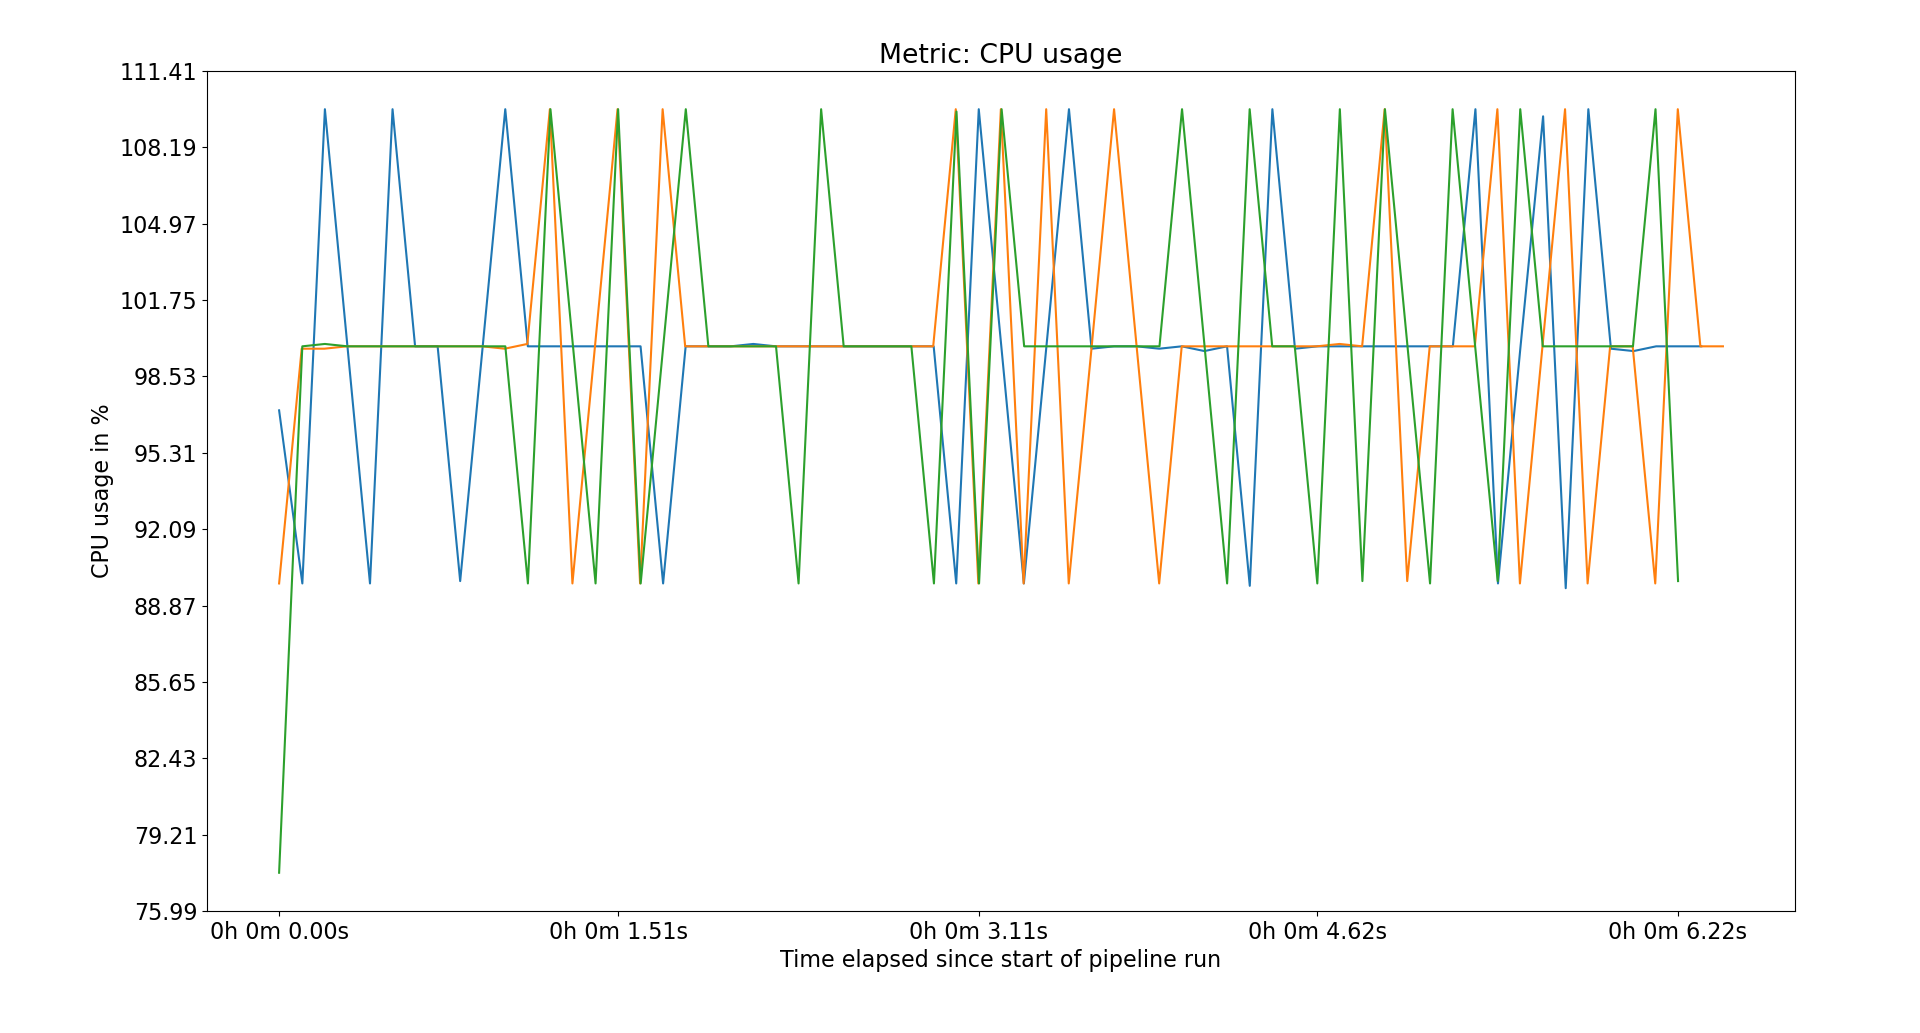
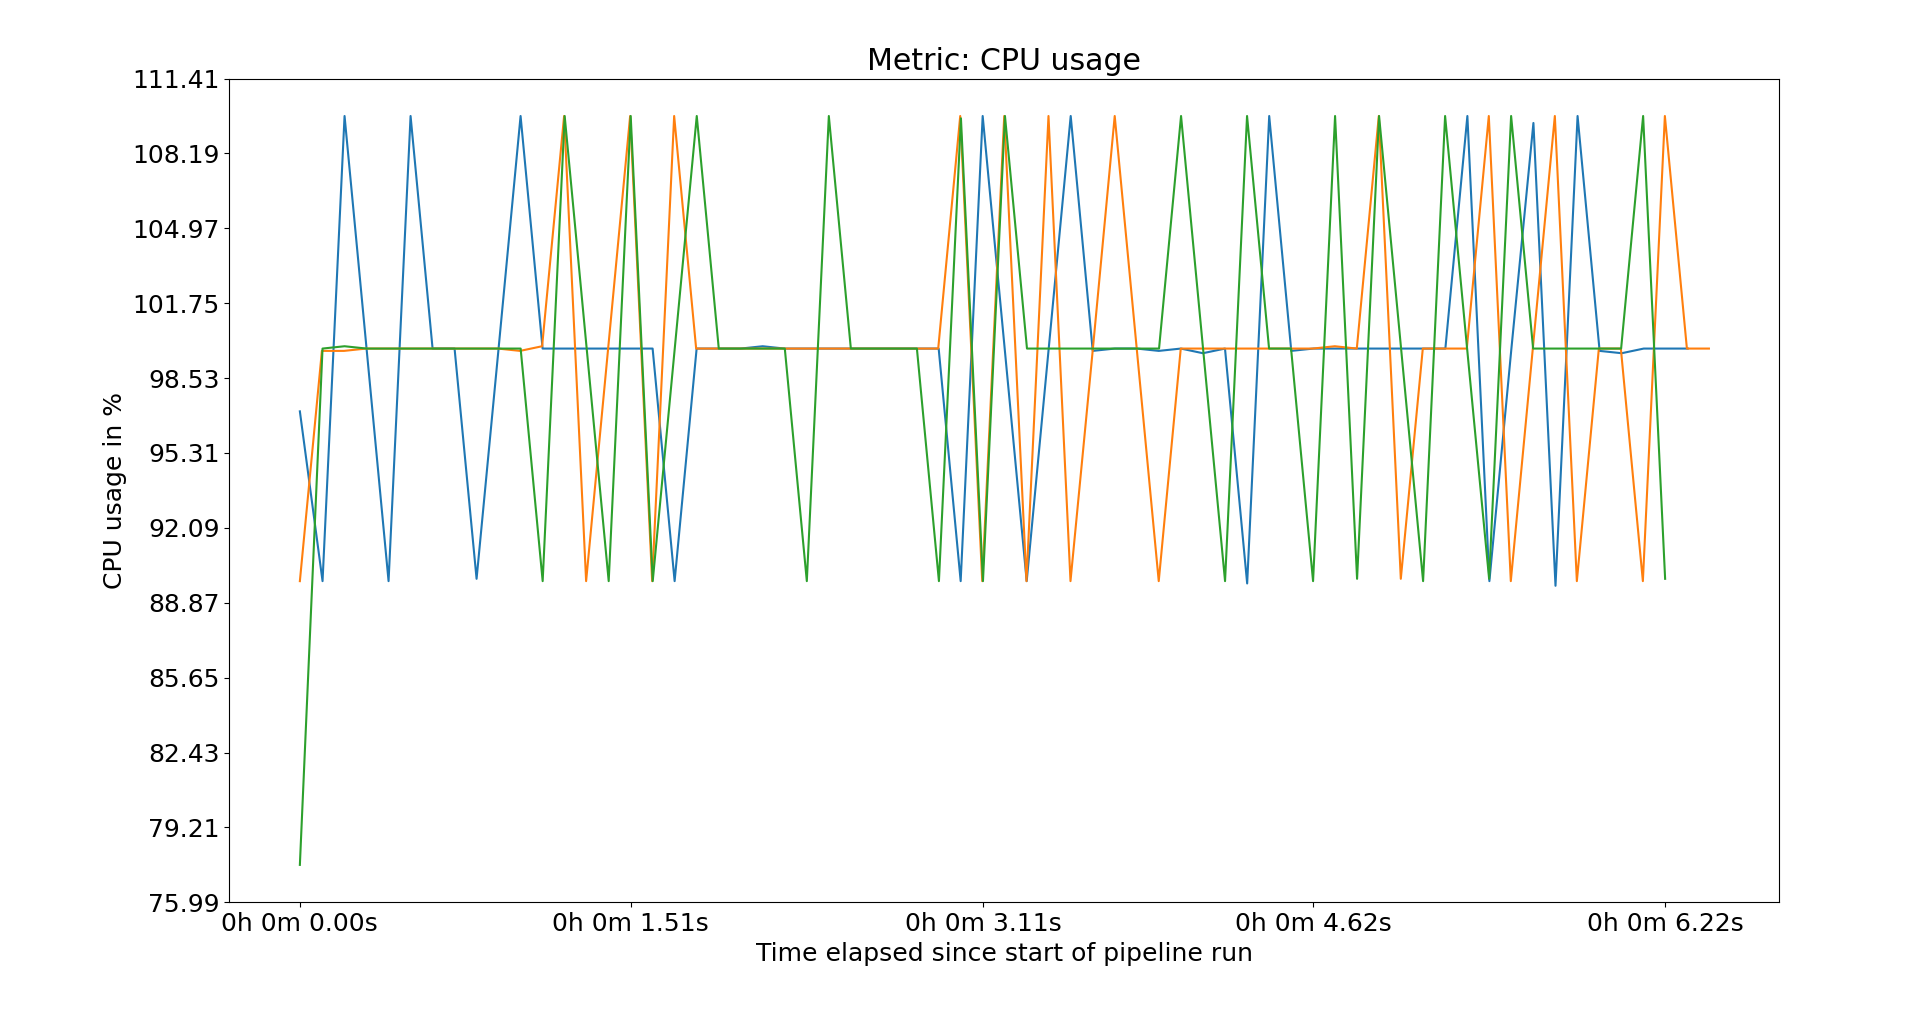
Adjusted plotting and figures.

diff --git a/umlaut/umlaut/visualization.py b/umlaut/umlaut/visualization.py
@@ -57,7 +57,7 @@ class HyperparemeterVisualizer(Visualizer):
 
 class ConfusionMatrixVisualizer(Visualizer):
     def plot_with_matplotlib(self):
-        plt.rcParams.update({'font.size': 16})
+        plt.rcParams.update({'font.size': 18})
         plt.tight_layout()
         figs = []
         for _, row in self.df.iterrows():
@@ -132,7 +132,7 @@ class TimebasedMultiLineChartVisualizer(Visualizer):
         return f"{int(hours)}h {int(minutes)}m {seconds:.2f}s"
     
     def plot_with_matplotlib(self):
-        plt.rcParams.update({'font.size': 16})
+        plt.rcParams.update({'font.size': 18})
         fig, ax = plt.subplots()
         plt.tight_layout()
 
@@ -180,7 +180,7 @@ class EpochbasedMultiLineChartVisualizer(Visualizer):
     """
 
     def plot_with_matplotlib(self):
-        plt.rcParams.update({'font.size': 16})
+        plt.rcParams.update({'font.size': 18})
         fig, ax = plt.subplots()
         plt.tight_layout()
         for _, row in self.df.iterrows():
@@ -230,7 +230,7 @@ class BarVisualizer(Visualizer):
         self.df = df_from_cli
     
     def plot_with_matplotlib(self):
-        plt.rcParams.update({'font.size': 16})
+        plt.rcParams.update({'font.size': 18})
         fig, ax = plt.subplots()
         plt.tight_layout()
         self.df.plot.barh(x='x_labels', y='measurement_data', stacked=False, legend=False, ax=ax)
